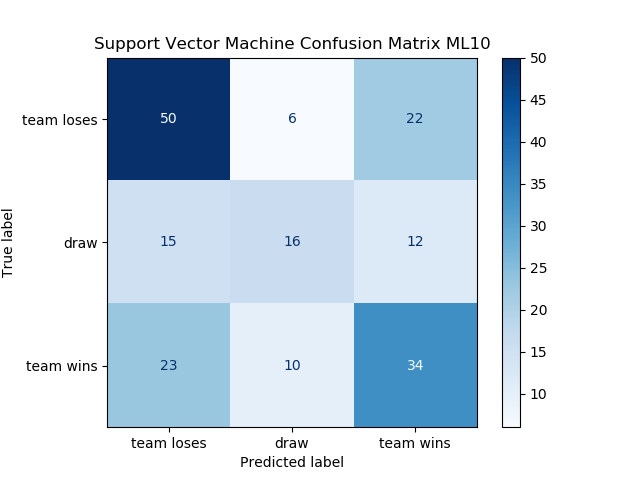
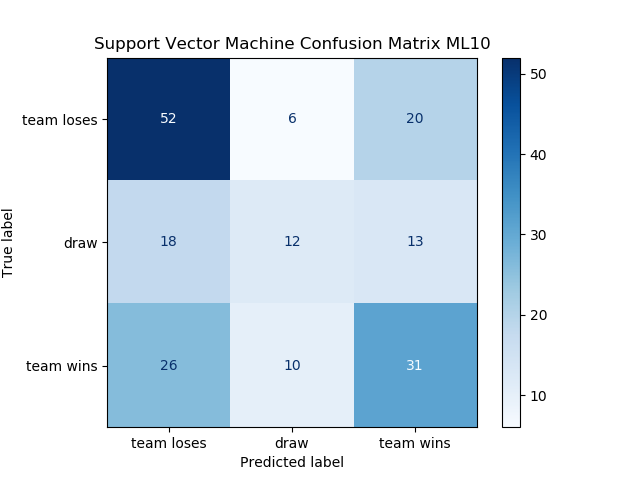
SVM - Scaling Data

diff --git a/ml_model_build_support_vector_machine/support_vector_machine_model_build.py b/ml_model_build_support_vector_machine/support_vector_machine_model_build.py
@@ -17,6 +17,7 @@ sys.path.append(dirname(realpath(__file__)) + sep + pardir + sep)
 
 
 from ml_functions.ml_model_eval import pred_proba_plot, plot_cross_val_confusion_matrix, plot_learning_curve
+from ml_functions.data_processing import scale_df
 import pickle
 import numpy as np
 import matplotlib.pyplot as plt
@@ -36,6 +37,11 @@ with open('../2019_prem_generated_clean/2019_prem_df_for_ml_5_v2.txt', 'rb') as 
 
 with open('../2019_prem_generated_clean/2019_prem_df_for_ml_10_v2.txt', 'rb') as myFile:
     df_ml_10 = pickle.load(myFile)
+
+
+#scaling dataframe to make all features to have zero mean and unit vector.
+df_ml_10 = scale_df(df_ml_10, list(range(14)), [14,15,16])
+df_ml_5 = scale_df(df_ml_5, list(range(14)), [14,15,16])
 
 
 x_10 = df_ml_10.drop(['Fixture ID', 'Team Result Indicator', 'Opponent Result Indicator'], axis=1)
@@ -86,11 +92,11 @@ ml_10_svm, x10_train, x10_test, y10_train, y10_test = svm_train(df_ml_10)
 ml_5_svm, x5_train, x5_test, y5_train, y5_test = svm_train(df_ml_5)
 
 
-with open('ml_models/svm_model_5.pk1', 'wb') as myFile:
-    pickle.dump(ml_5_svm, myFile)
+#with open('ml_models/svm_model_5.pk1', 'wb') as myFile:
+#    pickle.dump(ml_5_svm, myFile)
 
-with open('ml_models/svm_model_10.pk1', 'wb') as myFile:
-    pickle.dump(ml_10_svm, myFile)
+#with open('ml_models/svm_model_10.pk1', 'wb') as myFile:
+#    pickle.dump(ml_10_svm, myFile)
 
 
 # --------------- TESTING C PARAM ---------------
@@ -167,27 +173,27 @@ print('Cross-Validation Accuracy Score ML5: ', cv_score_av, '%\n')
 
 
 #prediction probability plots
-#fig = pred_proba_plot(ml_10_svm, x_10, y_10, no_iter=50, no_bins=35, x_min=0.3, classifier='Support Vector Machine (ml_10)')
+fig = pred_proba_plot(ml_10_svm, x_10, y_10, no_iter=50, no_bins=35, x_min=0.3, classifier='Support Vector Machine (ml_10)')
 #fig.savefig('figures/ml_10_svm_pred_proba.png')
 
-#fig = pred_proba_plot(ml_5_svm, x_5, y_5, no_iter=50, no_bins=35, x_min=0.3, classifier='Support Vector Machine (ml_5)')
+fig = pred_proba_plot(ml_5_svm, x_5, y_5, no_iter=50, no_bins=35, x_min=0.3, classifier='Support Vector Machine (ml_5)')
 #fig.savefig('figures/ml_5_svm_pred_proba.png')
 
 
 #plot confusion matrix - modified to take cross-val results.
 plot_cross_val_confusion_matrix(ml_10_svm, x_10, y_10, display_labels=('team loses', 'draw', 'team wins'), title='Support Vector Machine Confusion Matrix ML10', cv=skf)
-plt.savefig('figures\ml_10_confusion_matrix_cross_val_svm.png')
+#plt.savefig('figures\ml_10_confusion_matrix_cross_val_svm.png')
 
 plot_cross_val_confusion_matrix(ml_5_svm, x_5, y_5, display_labels=('team loses', 'draw', 'team wins'), title='Support Vector Machine Confusion Matrix ML5', cv=skf)
-plt.savefig('figures\ml_5_confusion_matrix_cross_val_svm.png')
+#plt.savefig('figures\ml_5_confusion_matrix_cross_val_svm.png')
 
 
 #plotting learning curves
 plot_learning_curve(ml_10_svm, x_10, y_10, training_set_size=10, x_max=160, title='Learning Curve - Support Vector Machine DF_10', leg_loc=1)
-plt.savefig('figures\ml_10_svm_learning_curve.png')
+#plt.savefig('figures\ml_10_svm_learning_curve.png')
 
 plot_learning_curve(ml_5_svm, x_5, y_5, training_set_size=10, x_max=230, title='Learning Curve - Support Vector Machine DF_5', leg_loc=1)
-plt.savefig('figures\ml_5_svm_learning_curve.png')
+#plt.savefig('figures\ml_5_svm_learning_curve.png')
 
 
     

diff --git a/ml_model_build_random_forest/random_forest_model_build.py b/ml_model_build_random_forest/random_forest_model_build.py
@@ -89,12 +89,13 @@ def rand_forest_train(df, print_result=True, print_result_label=''):
 ml_10_rand_forest, x10_train, x10_test, y10_train, y10_test = rand_forest_train(df_ml_10, print_result_label='DF_ML_10')
 ml_5_rand_forest, x5_train, x5_test, y5_train, y5_test = rand_forest_train(df_ml_5, print_result_label='DF_ML_5')
 
-with open('ml_models/random_forest_model_5.pk1', 'wb') as myFile:
-    pickle.dump(ml_5_rand_forest, myFile)
 
-with open('ml_models/random_forest_model_10.pk1', 'wb') as myFile:
-    pickle.dump(ml_10_rand_forest, myFile)
+#with open('ml_models/random_forest_model_5.pk1', 'wb') as myFile:
+#    pickle.dump(ml_5_rand_forest, myFile)
 
+#with open('ml_models/random_forest_model_10.pk1', 'wb') as myFile:
+#    pickle.dump(ml_10_rand_forest, myFile)
+    
 
 
 # ----- ENSEMBLE MODELLING -----
